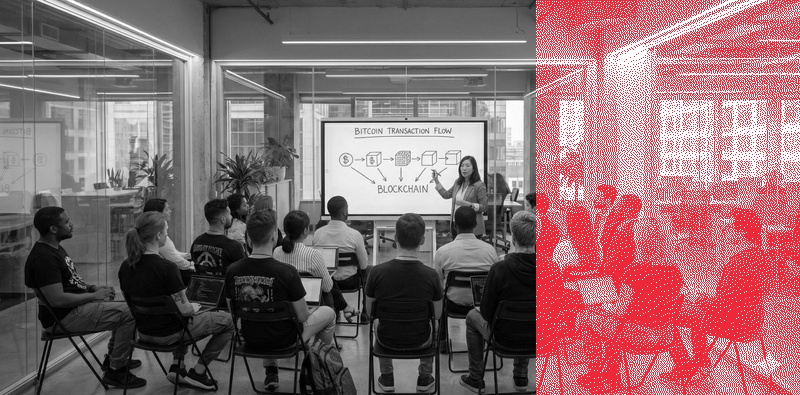
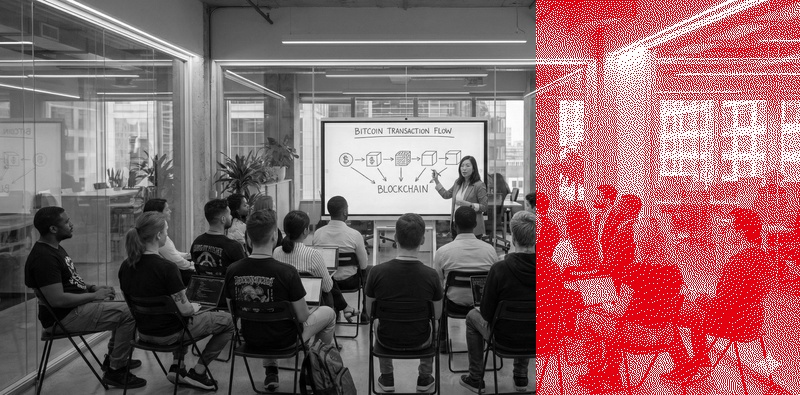
feat: Add dark background mode and update brand color
- feat: Add --background option (white/dark) for dithered areas
  - New DARK_BACKGROUND constant (#222222)
  - Dark mode uses dark gray background instead of white

- feat: Update AUSTRIAN_RED to #E3000F (Bitcoin Austria brand identity)
  - Changed from #ED2939 to new brand color
  - Updated all documentation references

- fix: Fix Floyd-Steinberg density mask bug
  - Skipped pixels no longer propagate error to neighbors
  - Fixes noise artifact when using --fade option
  - Preserves coherent dithering patterns at all density levels

- docs: Update README with dark background examples
  - Added Background Color section
  - Updated Example 3 to showcase dark mode
  - Updated all color references throughout

- test: Update e2e test for new features
  - Added --background=dark to test suite
  - Regenerated reference image with new color and fixed algorithm

Changed region(s): [[0.6562, 0.0, 1.0, 1.0]]

diff --git a/main.py b/main.py
@@ -27,8 +27,11 @@ import numpy.typing as npt
 from typing import Optional, Union, Tuple, Literal
 
 
-# Austrian flag red color
-AUSTRIAN_RED: Tuple[int, int, int] = (237, 41, 57)  # #ED2939
+# Austrian flag red color (Bitcoin Austria brand identity)
+AUSTRIAN_RED: Tuple[int, int, int] = (227, 0, 15)  # #E3000F
+
+# Dark background color for dithered areas
+DARK_BACKGROUND: Tuple[int, int, int] = (34, 34, 34)  # #222222
 
 # Golden ratio (phi)
 GOLDEN_RATIO: float = 1.618033988749895
@@ -222,9 +225,11 @@ def floyd_steinberg_dither(
             should_dither = True
             if density_mask is not None and density_random is not None:
                 if density_random[y, x] > density_mask[y, x]:
-                    # Skip this pixel, force to white
+                    # Skip this pixel, force to white, don't propagate error
                     should_dither = False
                     new_pixel = 255.0
+                    img[y, x] = new_pixel
+                    continue  # Skip error diffusion for this pixel
                 else:
                     new_pixel = 255 if old_pixel > adjusted_threshold else 0
             else:
@@ -288,7 +293,8 @@ def dither_image(
     output_path: Optional[Union[str, Path]] = None,
     rectangles: Optional[list[tuple[float, float, float, float]]] = None,
     circles: Optional[list[tuple[float, float, float]]] = None,
-    fade: Optional[float] = None
+    fade: Optional[float] = None,
+    background: Literal['white', 'dark'] = 'white'
 ) -> Path:
     """
     Apply dithering to a portion of an image using Austrian flag red.
@@ -309,6 +315,7 @@ def dither_image(
         circles: List of circles [(cx, cy, r), ...]. Coordinates can be any float value.
         fade: Dithering density (0.0 to 1.0). Controls sparsity of dithering across all areas.
               1.0 = full density, 0.1 = only 10% of pixels dithered.
+        background: Background color for dithered areas. 'white' (default) or 'dark' (#222222).
 
     Returns:
         Path to output file
@@ -407,9 +414,11 @@ def dither_image(
             dither_mask = np.array(mask_img) > 128
 
     # Create RGB image with Austrian red for dithered pixels
+    # Background color depends on mode: white or dark
+    bg_color = DARK_BACKGROUND if background == 'dark' else (255, 255, 255)
     dithered_rgb = np.zeros((height, width, 3), dtype=np.uint8)
     for i in range(3):
-        dithered_rgb[:, :, i] = np.where(dithered_array == 0, AUSTRIAN_RED[i], 255)
+        dithered_rgb[:, :, i] = np.where(dithered_array == 0, AUSTRIAN_RED[i], bg_color[i])
 
     # Create result image by compositing
     result_array = np.array(base_img)
@@ -464,7 +473,7 @@ def dither_image(
 @click.option(
     '--grayscale',
     is_flag=True,
-    help='Convert the original (non-dithered) part to grayscale'
+    help='Convert entire image to grayscale before applying dithering'
 )
 @click.option(
     '--no-randomize',
@@ -521,6 +530,13 @@ def dither_image(
     default=None,
     help='Dithering density (0.0 to 1.0). E.g., 0.1 = only 10%% of pixels dithered (sparse effect). Applies to all dithered areas.'
 )
+@click.option(
+    '--background',
+    type=click.Choice(['white', 'dark'], case_sensitive=False),
+    default='white',
+    show_default=True,
+    help='Background color for dithered areas. "white" for white background, "dark" for dark gray (#222222).'
+)
 def main(
     image: str,
     cut: Literal['vertical', 'horizontal'],
@@ -535,7 +551,8 @@ def main(
     output: Optional[str],
     rect: tuple[str, ...],
     circle: tuple[str, ...],
-    fade: Optional[float]
+    fade: Optional[float],
+    background: Literal['white', 'dark']
 ) -> None:
     """Apply monochrome dithering to a portion of an image using Austrian flag red.
 
@@ -605,7 +622,8 @@ def main(
             output_path=output,
             rectangles=rectangles,
             circles=circles,
-            fade=fade
+            fade=fade,
+            background=background
         )
         click.secho(f"✓ Dithered image saved to: {output_path}", fg='green')
     except Exception as e:

diff --git a/README.md b/README.md
@@ -1,6 +1,6 @@
 # btcat-img-dither
 
-Image dithering tool that applies monochrome dithering to a portion of an image using Austrian flag red.
+Image dithering tool that applies monochrome dithering to a portion of an image using Bitcoin Austria brand red (#E3000F).
 
 ## Features
 
@@ -8,7 +8,8 @@ Image dithering tool that applies monochrome dithering to a portion of an image 
 - **Combine shapes**: Mix multiple rectangles and circles in a single image
 - **Flexible positioning**: All coordinates accept any float value (not limited to 0-1)
 - **Randomized dithering**: Floyd-Steinberg with threshold randomization for organic, less regular patterns
-- **Austrian flag red**: Uses #ED2939 for dithered pixels
+- **Bitcoin Austria brand red**: Uses #E3000F for dithered pixels
+- **Background modes**: Choose white (default) or dark (#222222) background for dithered areas
 - **Grayscale mode**: Convert entire image to grayscale before applying dithering effects
 - **Density control**: Adjust dithering density for sparse or fade effects
 - **Format preservation**: Maintains original image format (JPEG/PNG)
@@ -28,7 +29,7 @@ Image dithering tool that applies monochrome dithering to a portion of an image 
 
 ![Basic Example](example-basic.jpg)
 
-The entire image is converted to grayscale, then the right 33% is dithered in Austrian flag red (#ED2939).
+The entire image is converted to grayscale, then the right 33% is dithered in Austrian flag red (#E3000F).
 
 ### Example 2: Multiple Shapes with Grayscale
 
@@ -40,15 +41,17 @@ The entire image is converted to grayscale, then the right 33% is dithered in Au
 
 Creates two vertical strips on the edges plus a circle in the center, all on a grayscale background.
 
-### Example 3: Sparse Dithering with Fade Effect
+### Example 3: Subtle Dithering with Dark Background
 
 ```bash
-./dither.sh --pos=0.5 --fade=0.1 test-image-800px.jpg
+./dither.sh --pos=0.5 --fade=0.4 --background=dark test-image-800px.jpg
 ```
 
 ![Fade Example](example-fade.jpg)
 
-Dithers the right 50% of the image with only 10% pixel density, creating a sparse, subtle effect.
+Dithers the right 50% of the image with 40% pixel density on a dark background (#222222), creating a subtle, translucent effect.
+
+**Note:** Very low fade values (below 0.2) can break the error diffusion algorithm and produce random noise instead of coherent dithering.
 
 ### Example 4: High Jitter for Organic Texture
 
@@ -181,6 +184,21 @@ Control the density of dithering across all dithered areas.
 ./dither.sh --grayscale --fade=0.3 --circle=0.5,0.5,0.4 image.jpg
 ```
 
+#### Background Color
+
+Choose between white or dark background for dithered areas.
+
+```bash
+# White background (default): red dots on white
+./dither.sh --background=white image.jpg
+
+# Dark background: red dots on dark gray (#222222)
+./dither.sh --background=dark image.jpg
+
+# Combine with fade for subtle dark effect
+./dither.sh --background=dark --fade=0.4 --pos=0.5 image.jpg
+```
+
 #### Dithering Threshold
 
 ```bash
@@ -247,7 +265,7 @@ The tool generates output files with the format:
 3. **Create dithering masks**: Generates boolean masks for rectangles and circles (combined with logical OR)
 4. **Dithering**: Applies Floyd-Steinberg error diffusion dithering with optional randomization
 5. **Density control** (optional): If `--fade` is specified, probabilistically skips pixels for sparse effects
-6. **Colorization**: Renders dithered pixels in Austrian flag red (#ED2939) on white background
+6. **Colorization**: Renders dithered pixels in Bitcoin Austria red (#E3000F) on chosen background (white or dark #222222)
 7. **Compositing**: Applies dithered regions to the base image using the masks
 8. **Save**: Outputs the result in the same format as the input with smart naming
 
